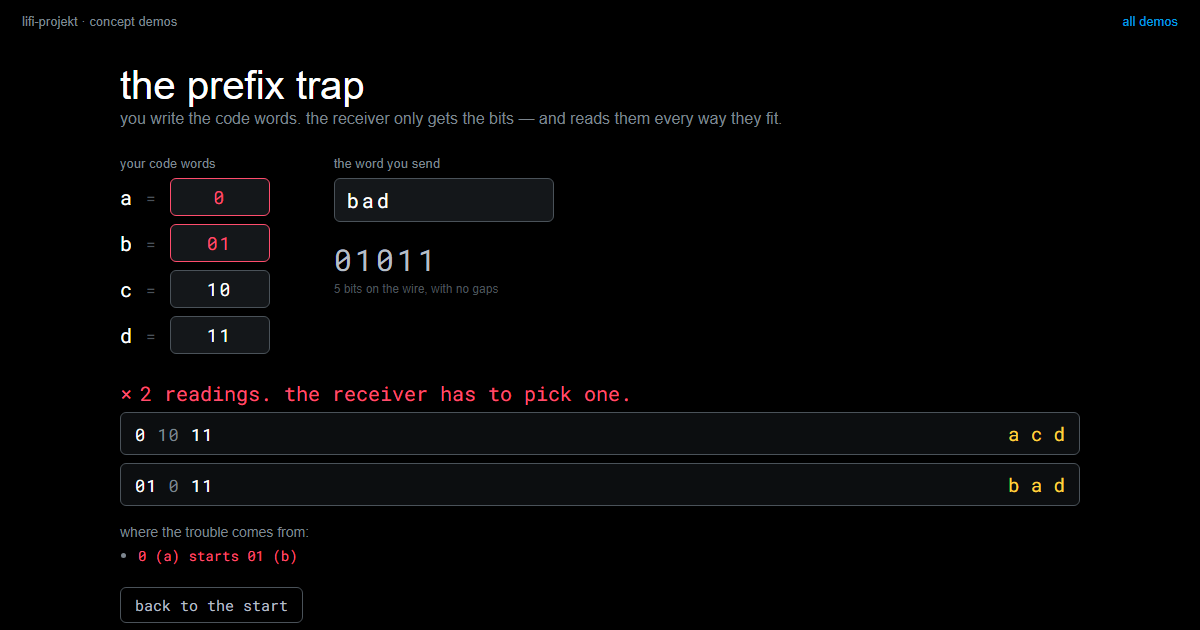
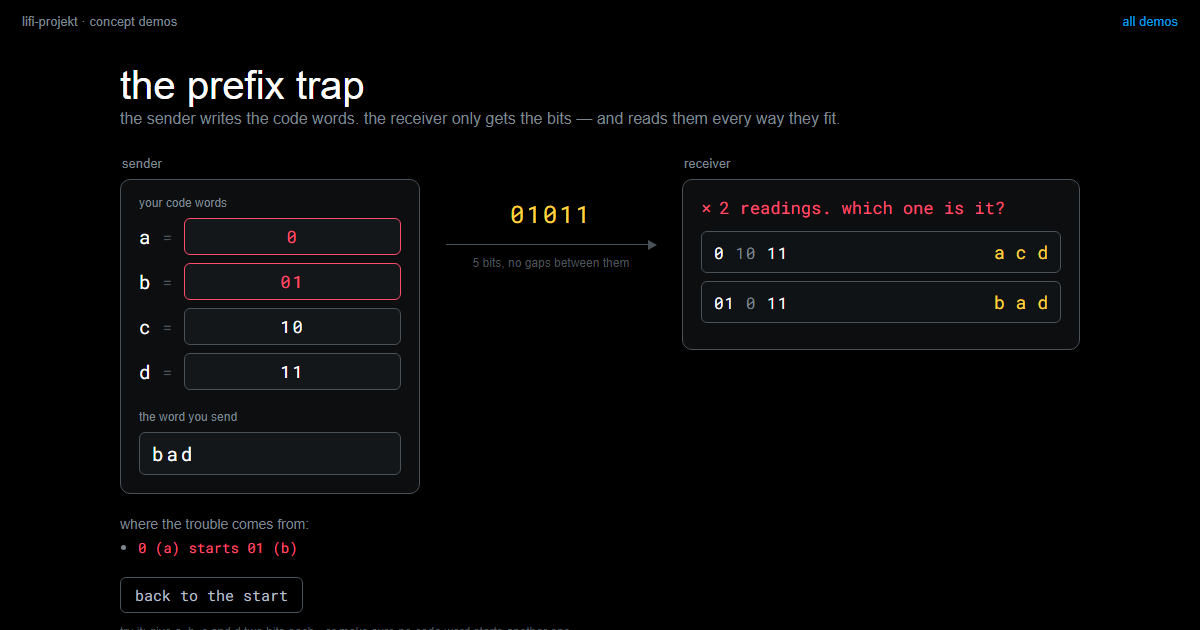
Prefix Trap: als Strecke aus Sender, Leitung und Empfaenger
Rueckmeldung des Nutzers: Die Demo soll dieselbe Anordnung tragen wie die
Folien des Inputs. Links der Sender mit seinen Codewoertern und dem Wort,
in der Mitte die nackte Bitfolge auf der Leitung mit einem Pfeil zum
Empfaenger, rechts der Empfaenger mit den Lesarten, zwischen denen er
waehlen muesste und nicht kann.

Der Befund zu den Praefixen steht unter dem Sender, denn er betrifft die
Codewoerter. Verdikt-Texte gekuerzt.

diff --git a/prefix-trap/index.html b/prefix-trap/index.html
@@ -4,11 +4,11 @@
   <meta charset="utf-8">
   <meta name="viewport" content="width=device-width, initial-scale=1">
   <title>the prefix trap</title>
-  <meta name="description" content="write your own code words, send a word, and see every reading the receiver could pick. get the list down to one and you have built a code that works.">
+  <meta name="description" content="write your own code words, send a word, and watch the receiver hesitate: every reading it could pick, side by side. get the list down to one and you have built a code that works.">
   <meta property="og:type" content="website">
   <meta property="og:site_name" content="LiFi Project · concept demos">
   <meta property="og:title" content="the prefix trap">
-  <meta property="og:description" content="write your own code words, send a word, and see every reading the receiver could pick. get the list down to one and you have built a code that works.">
+  <meta property="og:description" content="write your own code words, send a word, and watch the receiver hesitate: every reading it could pick, side by side. get the list down to one and you have built a code that works.">
   <meta property="og:url" content="https://winf-hsos.github.io/lifi-concept-demos/prefix-trap/">
   <meta property="og:image" content="https://winf-hsos.github.io/lifi-concept-demos/prefix-trap/preview.png">
   <meta property="og:image:width" content="1200">
@@ -18,69 +18,82 @@
   <link href="https://fonts.googleapis.com/css2?family=Roboto+Mono:wght@400;500&display=swap" rel="stylesheet">
   <link rel="stylesheet" href="../assets/style.css">
   <style>
-    .bench {
+    /* Die Strecke: links der Sender mit seinen Codewoertern, in der Mitte die
+       nackte Bitfolge auf der Leitung, rechts der Empfaenger mit dem, was er
+       daraus lesen koennte. Dieselbe Anordnung wie auf den Folien des Inputs. */
+    .link {
       display: flex;
-      gap: clamp(24px, 6vw, 64px);
+      gap: 26px;
       align-items: flex-start;
       flex-wrap: wrap;
-      margin: 22px 0 4px;
+      margin: 24px 0 6px;
     }
-
-    .panel-head {
-      color: var(--gray);
-      font-size: 13px;
-      height: 22px;
+    .party-head { color: var(--gray); font-size: 13px; margin: 0 0 8px 2px; }
+    .panel {
+      border: 1px solid var(--gray-dark);
+      border-radius: 10px;
+      padding: 16px 18px 18px;
+      background: #0c0e10;
     }
+    .sender { flex: 0 0 300px; }
+    .receiver { flex: 1 1 380px; min-width: 340px; }
 
-    /* linke Spalte: das Codebuch */
-    .book { display: grid; grid-template-columns: auto auto auto; gap: 8px 14px; align-items: center; }
-    .book .ch { font-family: var(--mono); font-size: 20px; color: var(--white); }
+    .sub { color: var(--gray); font-size: 12px; margin: 0 0 8px; }
+    .sub.spaced { margin-top: 20px; }
+
+    /* Sender: das Codebuch und das Wort */
+    .book { display: grid; grid-template-columns: auto auto 1fr; gap: 8px 12px; align-items: center; }
+    .book .ch { font-family: var(--mono); font-size: 19px; color: var(--white); }
     .book .eq { color: var(--gray-dark); font-family: var(--mono); }
-    .book input {
-      width: 100px;
+    .book input, #word {
       font-family: var(--mono);
-      font-size: 18px;
+      color: var(--white);
+      background: #14171a;
+      border: 1px solid var(--gray-dark);
+      border-radius: 6px;
+    }
+    .book input {
+      width: 100%;
+      font-size: 17px;
       letter-spacing: 2px;
       text-align: center;
-      color: var(--white);
-      background: #14171a;
-      border: 1px solid var(--gray-dark);
-      border-radius: 6px;
       padding: 6px 0;
     }
-    .book input:focus { outline: 2px solid var(--blue); border-color: var(--blue); }
+    #word { width: 100%; font-size: 19px; letter-spacing: 3px; padding: 8px 12px; }
+    .book input:focus, #word:focus { outline: 2px solid var(--blue); border-color: var(--blue); }
     .book input.clash { border-color: var(--red); color: var(--red); }
 
-    /* rechte Spalte: die Nachricht */
-    .msg input {
-      width: 220px;
+    /* Die Leitung: nur die Bits, ohne Luecken, mit einem Pfeil zum Empfaenger */
+    .wire { flex: 0 0 210px; text-align: center; padding-top: 42px; }
+    .wire .sent {
       font-family: var(--mono);
-      font-size: 20px;
-      letter-spacing: 3px;
-      color: var(--white);
-      background: #14171a;
-      border: 1px solid var(--gray-dark);
-      border-radius: 6px;
-      padding: 8px 12px;
-    }
-    .msg input:focus { outline: 2px solid var(--blue); border-color: var(--blue); }
-    .msg .sent {
-      font-family: var(--mono);
-      font-size: clamp(20px, 3.4vw, 30px);
-      letter-spacing: 3px;
-      color: var(--gray-light);
-      margin-top: 18px;
-      min-height: 40px;
+      font-size: clamp(17px, 2.4vw, 24px);
+      letter-spacing: 2px;
+      color: var(--yellow);
+      min-height: 34px;
       word-break: break-all;
     }
-    .msg .sentnote { color: var(--gray-dark); font-size: 12px; margin-top: 2px; }
+    .wireline {
+      position: relative;
+      border-top: 1px solid var(--gray-dark);
+      margin: 12px 0 10px;
+    }
+    .wireline::after {
+      content: "";
+      position: absolute;
+      right: -1px; top: -5px;
+      border-left: 9px solid var(--gray-dark);
+      border-top: 5px solid transparent;
+      border-bottom: 5px solid transparent;
+    }
+    .wire .sentnote { color: var(--gray-dark); font-size: 12px; line-height: 1.4; }
 
-    /* der Befund */
+    /* Empfaenger: der Befund und die Lesarten, zwischen denen er waehlen muesste */
     .verdict {
-      margin: 26px 0 6px;
       font-family: var(--mono);
-      font-size: 20px;
+      font-size: 17px;
       color: var(--red);
+      margin: 0 0 12px;
     }
     .verdict.unique { color: var(--green); }
     .verdict .mark { margin-right: 8px; }
@@ -88,28 +101,28 @@
     .readings { display: flex; flex-direction: column; gap: 8px; }
     .reading {
       display: flex;
-      gap: 22px;
+      gap: 20px;
       align-items: baseline;
       font-family: var(--mono);
       border: 1px solid var(--gray-dark);
       border-radius: 6px;
-      padding: 8px 14px;
-      background: #0c0e10;
+      padding: 8px 12px;
+      background: #101315;
     }
     .reading.only { border-color: var(--green); }
-    .reading .bits { font-size: 17px; letter-spacing: 1px; flex: 1; word-break: break-all; }
+    .reading .bits { font-size: 16px; letter-spacing: 1px; flex: 1; word-break: break-all; }
     .reading .bits .chunk { color: var(--white); }
     .reading .bits .chunk.alt { color: var(--gray); }
-    .reading .word { font-size: 19px; color: var(--yellow); white-space: nowrap; }
-    .more { color: var(--gray-dark); font-size: 13px; font-family: var(--mono); }
+    .reading .word { font-size: 18px; color: var(--yellow); white-space: nowrap; }
+    .more { color: var(--gray-dark); font-size: 13px; font-family: var(--mono); margin-top: 8px; }
 
-    /* Befund zu den Praefixen, nur wenn es mehrdeutig ist */
-    .why { margin: 18px 0 0; color: var(--gray); font-size: 14px; }
+    /* Der Befund zu den Praefixen, unter der ganzen Strecke */
+    .why { margin: 22px 0 0; color: var(--gray); font-size: 14px; }
     .why ul { margin: 6px 0 0; padding-left: 18px; }
     .why li { margin: 3px 0; font-family: var(--mono); font-size: 14px; }
     .why .bad { color: var(--red); }
 
-    .controls { display: flex; gap: 12px; flex-wrap: wrap; align-items: center; margin-top: 22px; }
+    .controls { display: flex; gap: 12px; flex-wrap: wrap; align-items: center; margin-top: 20px; }
     .controls .hint { width: 100%; }
 
     .takeaway {
@@ -128,24 +141,34 @@
 
   <main>
     <h1>the prefix trap</h1>
-    <p class="subtitle">you write the code words. the receiver only gets the bits &mdash; and reads them every way they fit.</p>
+    <p class="subtitle">the sender writes the code words. the receiver only gets the bits &mdash; and reads them every way they fit.</p>
 
-    <div class="bench">
-      <div>
-        <div class="panel-head">your code words</div>
-        <div class="book" id="book"></div>
+    <div class="link">
+      <div class="sender">
+        <div class="party-head">sender</div>
+        <div class="panel">
+          <p class="sub">your code words</p>
+          <div class="book" id="book"></div>
+          <p class="sub spaced">the word you send</p>
+          <input id="word" type="text" spellcheck="false" autocomplete="off" aria-label="word to send, letters a to d">
+        </div>
       </div>
-      <div class="msg">
-        <div class="panel-head">the word you send</div>
-        <input id="word" type="text" spellcheck="false" autocomplete="off" aria-label="word to send, letters a to d">
+
+      <div class="wire">
         <div class="sent" id="sent"></div>
+        <div class="wireline"></div>
         <div class="sentnote" id="sentnote"></div>
       </div>
-    </div>
 
-    <div class="verdict" id="verdict"></div>
-    <div class="readings" id="readings"></div>
-    <div class="more" id="more"></div>
+      <div class="receiver">
+        <div class="party-head">receiver</div>
+        <div class="panel">
+          <div class="verdict" id="verdict"></div>
+          <div class="readings" id="readings"></div>
+          <div class="more" id="more"></div>
+        </div>
+      </div>
+    </div>
 
     <div class="why" id="why"></div>
 
@@ -163,6 +186,6 @@
   </div>
 
   <!-- Versionsnummer bei jeder app.js-Aenderung hochzaehlen: umgeht den Browser-Cache. -->
-  <script src="app.js?v=3"></script>
+  <script src="app.js?v=5"></script>
 </body>
 </html>

diff --git a/prefix-trap/app.js b/prefix-trap/app.js
@@ -147,9 +147,9 @@ function render() {
   $("sent").textContent = bits || "—";
   const missingUsed = used.filter((ch) => !code[ch]);
   $("sentnote").textContent = missingUsed.length
-    ? "no code word for " + missingUsed.join(", ") + " — nothing is sent for it"
+    ? "no code word for " + missingUsed.join(", ") + ", so nothing is sent for it"
     : bits
-      ? bits.length + " bits on the wire, with no gaps"
+      ? bits.length + " bits, no gaps between them"
       : "type a word made of a, b, c and d";
 
   const conflicts = clashes(code);
@@ -170,14 +170,14 @@ function showVerdict(readings, bits) {
   const capped = n >= MAX_FOUND;
   if (n === 1) {
     el.className = "verdict unique";
-    el.innerHTML = '<span class="mark">&check;</span>one reading. the receiver cannot get it wrong.';
+    el.innerHTML = '<span class="mark">&check;</span>one reading. no guessing needed.';
   } else if (n === 0) {
     el.className = "verdict";
-    el.innerHTML = '<span class="mark">&times;</span>no reading at all. these bits are not a word in your code.';
+    el.innerHTML = '<span class="mark">&times;</span>no reading at all. these bits fit no word.';
   } else {
     el.className = "verdict";
     el.innerHTML = '<span class="mark">&times;</span>' + (capped ? "more than " + MAX_FOUND : n) +
-      " readings. the receiver has to pick one.";
+      " readings. which one is it?";
   }
 }
 

diff --git a/IDEAS.md b/IDEAS.md
@@ -25,7 +25,7 @@ Diskussionsgrundlage, Stand 02.09.2026. Je Konzept die Frage: Was lässt sich du
 
 **Pixel Painter** (Codesysteme, live): 8x8-Raster mit einem Bit je Pixel, daneben die acht Bytes binaer und als editierbare Hexfelder, beide Richtungen live; "break a byte" und "flip one bit" zeigen den Schaden rot, "repair" holt den heilen Stand zurueck.
 
-**The Prefix Trap** (Codesysteme, live): der Code, der nicht funktioniert, zum Selbermachen. Vier eigene Codewoerter fuer a bis d, ein getipptes Wort, darunter die nackte Bitfolge und **alle** Zerlegungen, die der Empfaenger daraus lesen koennte. Vorbelegung a=0, b=01, c=10, d=11 mit dem Wort "bad": zwei Lesarten. Der Befund nennt, welches Codewort welches beginnt, sagt aber nicht, wie es richtig geht; wer feste Laenge oder Praefixfreiheit selbst herstellt, sieht die Liste auf eins schrumpfen. Startwerte in der Adresse (?a=&b=&c=&d=&word=).
+**The Prefix Trap** (Codesysteme, live): der Code, der nicht funktioniert, zum Selbermachen, angeordnet als Strecke (Sender links mit seinen Codewoertern und dem Wort, in der Mitte die nackte Bitfolge auf der Leitung, rechts der Empfaenger). Vier eigene Codewoerter fuer a bis d, ein getipptes Wort, und beim Empfaenger **alle** Zerlegungen, zwischen denen er waehlen muesste. Vorbelegung a=0, b=01, c=10, d=11 mit dem Wort "bad": zwei Lesarten. Der Befund nennt, welches Codewort welches beginnt, sagt aber nicht, wie es richtig geht; wer feste Laenge oder Praefixfreiheit selbst herstellt, sieht die Liste auf eins schrumpfen. Startwerte in der Adresse (?a=&b=&c=&d=&word=).
 
 **Drift Simulator** (Abtastung und Synchronisation, live): Sender legt eine Farbfolge in Zeitschlitze, die Empfängeruhr geht einstellbar falsch; Abtastpunkte wandern sichtbar, die Statistik zeigt den Versatz und die halbe-Schlitz-Grenze, eine zuschaltbare Sync-Marke richtet neu aus und kostet sichtbar Rate. Farben ohne Bit-Zuordnung (Priming-Regel).
 
